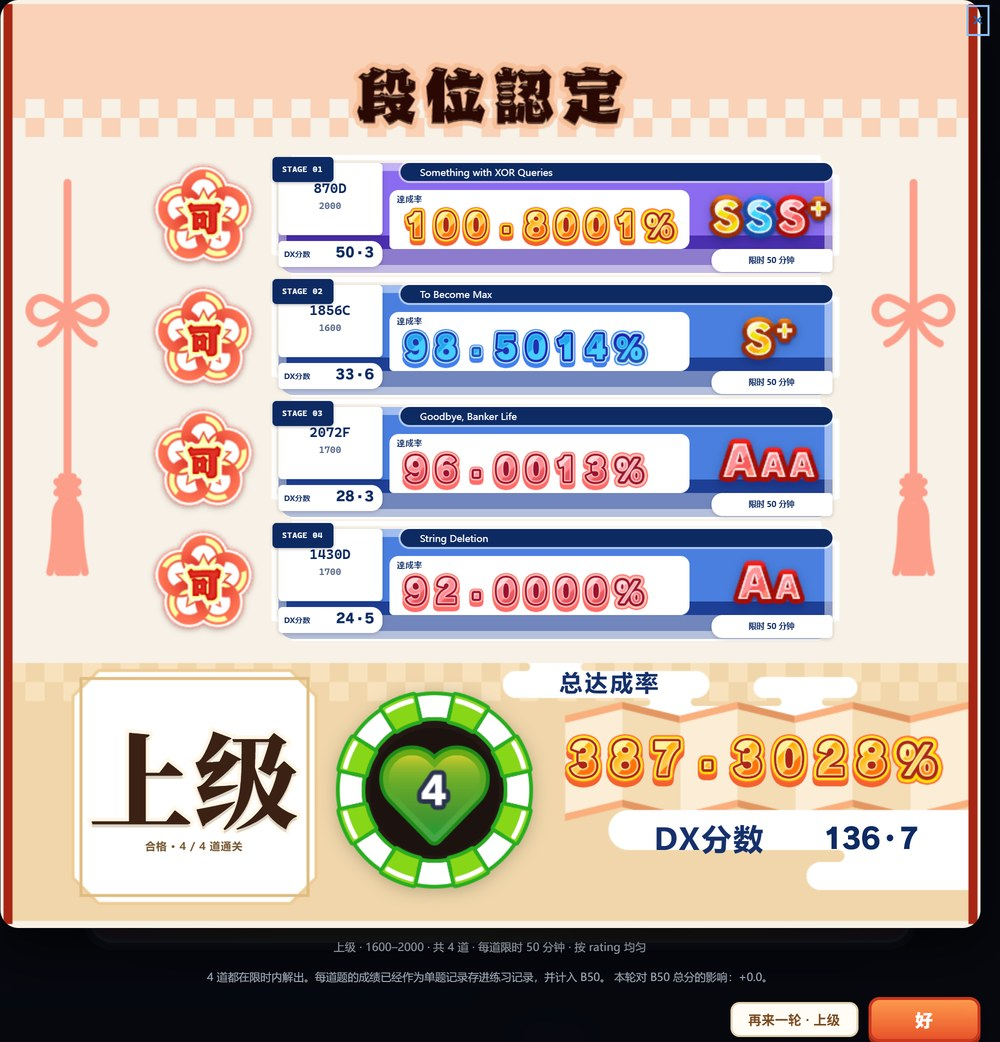
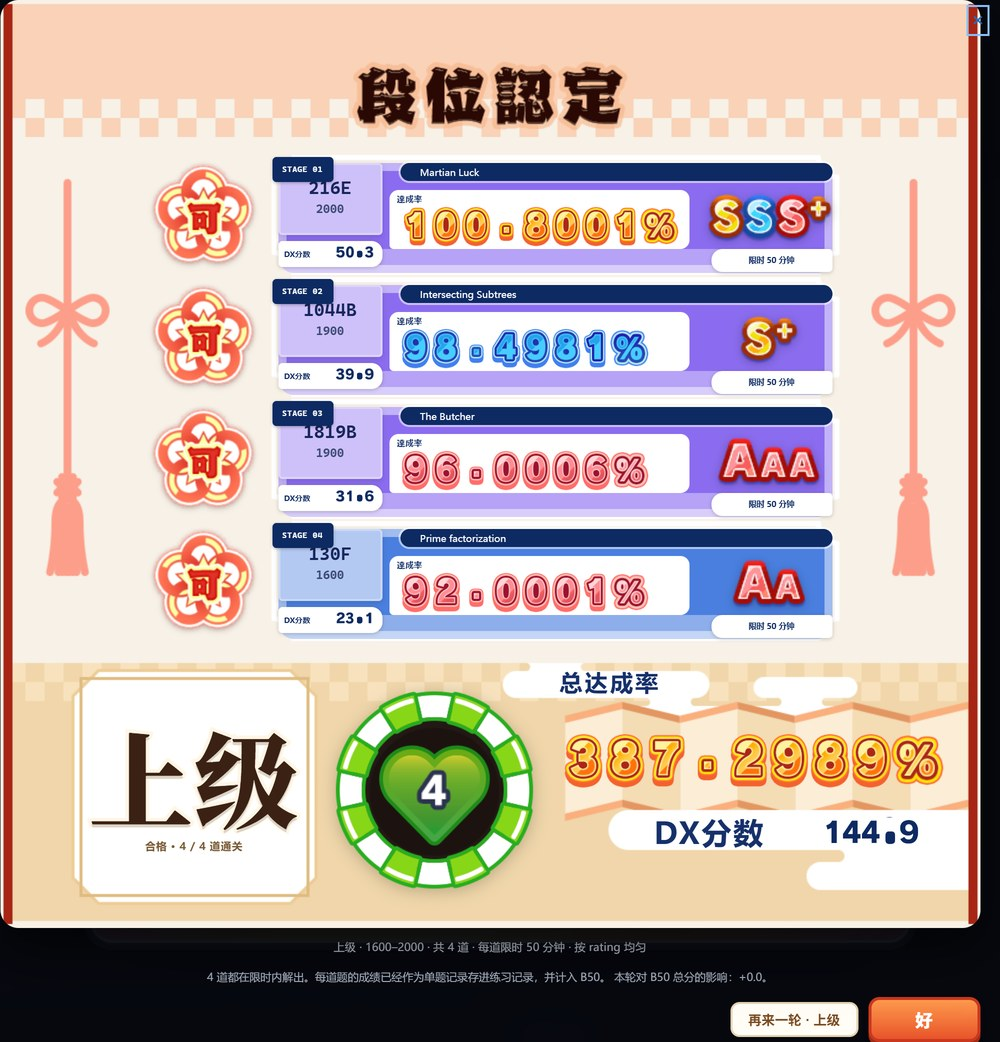
fix: put the decimal on the baseline, flatten the card colour
对着原版逐像素量了一遍（`official-dani.png` 里「101.0000%」那只方块）：

- **小数点根本没走上「借用」那条路**。白字族的索引表里也定义了 `.`（映射到 `[13]`），
  所以我上一版写的 `font.chars[ch] === undefined && ch === '.'` 永远不成立 —— 渲染出来的
  还是白字族那一格：26p 只有 8×8、90p 24×24，小字号下量下来只有 **6×6**、还浮在字高中间
  （实测它底边比数字基线高 8px）。现在改成「本族这一格画得不对，一律借分数族的句点」，
  直接覆盖映射。
- **借来的句点按基线摆**：官方那只方块的底边压在数字基线上（量下来差 0px）。所以借来的
  字形按自己的格子高定比例、横向居中，纵向把墨迹底线压到本族基线上（`baseline` 0.827 对
  90p 的 0.886）。复量：句点 10×12px、底边 y 843，数字基线 y 842 —— 差 0/1px。
- **卡片改平色**：主色场原来是 `--tc1 → --tc2` 的上下渐变，一屏四张卡就是四块深浅不一的
  色块；现在 `background: var(--tc1)`，只有底部那条浅色带（原版就有）。
- **曲绘槽底色**取卡片主色的浅色版本（`color-mix(... 42%, #fff)`），不再是纯白；槽里题号
  1rem → **1.3rem**、rating .68 → **.85rem**。
- 底带 `DX分数` 那一行上移 6px（白牌内边距 6 → 0）。

E2E / 像素探针 / 314 个单测全绿。

Changed region(s): [[0.279, 0.1536, 0.837, 0.6142], [0.651, 0.7063, 0.93, 0.8292], [0.434, 0.1536, 0.558, 0.1843]]

diff --git a/public/dan.css b/public/dan.css
@@ -228,14 +228,15 @@
 .dan-track[data-outcome="pending"] .dan-track-stamp { opacity: .22; filter: grayscale(1); }
 .dan-track-plate { position: absolute; inset: 0; background: url('/assets/maimai/track-plate.png') 0 0 / 100% 100% no-repeat; }
 
-/* 乐曲边框：主色场（背景渐变）+ 外圈浅色环（inset 阴影）+ 底部浅色带（背景最上面那一层）。
- * 环与带都画在背景层里，所以边框**不是**真 border —— 真 border 会把子元素坐标系推进 8px。 */
+/* 乐曲边框：**单色**主色场（原版那张底板就是一块平色）+ 外圈浅色环 + 底部浅色带。
+ * 环与带都画在背景层里，所以边框**不是**真 border —— 真 border 会把子元素坐标系推进 8px。
+ * 原来主色场是 `--tc1 → --tc2` 的上下渐变，一屏四张卡就是四块深浅不一的色块，改成平色。 */
 .dan-track-frame {
   position: absolute; left: 11px; top: 11px; width: 554px; height: 110px; border-radius: 16px;
   box-shadow: inset 0 0 0 8px #ffffff7a;
   background:
     linear-gradient(#ffffff5e, #ffffff5e) left bottom / 100% 24px no-repeat,
-    linear-gradient(180deg, var(--tc1, #8b6cf0) 0 66%, var(--tc2, #4a2fb0) 66% 100%);
+    var(--tc1, #8b6cf0);
 }
 /* 边框里的组件用**边框内坐标**（= 行内坐标 − 11，因为边框自己在行内 (11,11)）。 */
 /* 深蓝标题条（官方烘在边框里的那一条）+ 官方那圈浅色描边，题目名写在里面。
@@ -250,19 +251,19 @@
   color: #fff; background: #0d2a63; border-radius: 4px; box-shadow: 0 1px 3px #00000047;
 }
 /* 官方的曲绘槽（JacketImage_S）：我们抽的是 CF 题、没有曲绘 —— 槽里放题号本身
- * （`1554C` 这种「题号 + 小问」的写法）与这题在 CF 上的 rating。原来那一版往里塞了
- * 档位色渐变 + 斜条纹，一屏四张卡就是四块看不懂的色块，现在就是一块白牌。
- * 左上角跟着边框的圆角（方角会戳到边框圆角外面去）。 */
+ * （`1554C` 这种「题号 + 小问」的写法）与这题在 CF 上的 rating。
+ * 底色是**卡片主色的浅色版本**（原版那格是曲绘，换成白牌会像挖了个洞）。 */
 .dan-track-jacket {
   position: absolute; left: 11px; top: 11px; width: 104px; height: 72px;
   border-radius: 16px 4px 4px 4px; display: flex; flex-direction: column;
-  justify-content: center; align-items: center; gap: 4px; padding-bottom: 2px;
-  background: #fff; box-shadow: inset 0 0 0 2px #ffffff3d, 0 2px 6px #0000002e;
+  justify-content: center; align-items: center; gap: 2px;
+  background: color-mix(in srgb, var(--tc1, #8b6cf0) 42%, #ffffff);
+  box-shadow: inset 0 0 0 2px #ffffff4d, 0 2px 6px #00000024;
 }
 .dan-track-jacket b {
-  font-family: var(--mono); font-size: 1rem; font-weight: 900; line-height: 1; color: #0d2a63;
+  font-family: var(--mono); font-size: 1.3rem; font-weight: 900; line-height: 1; color: #17265c;
 }
-.dan-track-jacket small { font-family: var(--mono); font-size: .68rem; font-weight: 700; color: #5a6a8c; }
+.dan-track-jacket small { font-family: var(--mono); font-size: .85rem; font-weight: 700; color: #3d4a75; }
 /* 单题 DX 分数（= 该题算出的 rating）。跟着题目放左边，与右边的限时白牌左右配平；
  * 圆角方向照官方那块牌（平的一头贴边框，圆的一头朝里）。
  * `align-items: baseline`：小字标签与数字按**同一条基线**排（数字那一侧由 numText 的
@@ -364,7 +365,7 @@
  * 所以文字靠上排（顶到 y 816），不跟着整块矩形居中。 */
 .dan-dxscore-row {
   position: absolute; left: 608px; top: 810px; width: 360px; height: 80px;
-  display: flex; align-items: baseline; justify-content: space-between; padding: 6px 46px 0;
+  display: flex; align-items: baseline; justify-content: space-between; padding: 0 46px 0;
 }
 .dan-dxscore-label { font-size: 30px; font-weight: 800; letter-spacing: .06em; color: #16306b; }
 .dan-dxscore-num { display: flex; align-items: center; }

diff --git a/public/dan.js b/public/dan.js
@@ -665,8 +665,9 @@ const SCORE_INDEX = {
   '0': 0, '1': 1, '2': 2, '3': 3, '4': 4, '5': 5, '6': 6, '7': 7, '8': 8, '9': 9,
   '+': 10, '/': 11, '%': 12, '.': 13,
 };
-/** 白字族借用的小数点（分数族 `[13]`，见 NUM_FONTS 的说明）。 */
-const DECIMAL_GLYPH = { fill: 'num-score-blue', outline: '', atlas: [296, 392], cell: [74, 98], index: 13 };
+/** 白字族借用的小数点（分数族 `[13]`，见 NUM_FONTS 的说明）。
+ *  `baseline` 是这一格的墨迹底线（`y 41..81` / 98），借来的字形按它对齐到本族的基线上。 */
+const DECIMAL_GLYPH = { fill: 'num-score-blue', outline: '', atlas: [296, 392], cell: [74, 98], index: 13, baseline: 0.827 };
 /**
  * 图集每格留了空白边（90p 那格 89px 宽、字形只有 63px），照格宽排字会读起来「一个字一个字
  * 分开」。官方是等距密排（字与字几乎贴上），所以每格按 `advance` 收回去一点，见 numText。
@@ -776,8 +777,9 @@ function numText(text, fontKey, height, color, opts = {}) {
     const cell = el('i', 'dan-num-char');
     cell.style.height = `${height}px`;
     if (index === chars.length - 1) cell.classList.add('dan-num-last');
-    // 本族没有这一格时借一个（目前只有小数点：白字族那格是中黑点，借分数族的句点）。
-    const borrowed = font.chars[ch] === undefined && ch === '.' && font.decimal;
+    // 白字族那格是中黑点（不是句点），所以小数点一律用借来的字形 —— 不是「本族缺字才借」，
+    // 是「本族这一格画得不对」，所以这里覆盖掉 `chars` 里的映射。
+    const borrowed = ch === '.' && font.decimal;
     const glyph = borrowed ? font.decimal : font;
     const idx = borrowed ? glyph.index : font.chars[ch];
     if (idx === undefined) {
@@ -787,12 +789,14 @@ function numText(text, fontKey, height, color, opts = {}) {
       wrap.append(cell);
       return;
     }
-    // 借来的字形按**自己**的格子高定比例（保持形状比例），再在本族格子里横向居中。
+    // 借来的字形按**自己**的格子高定比例（保持形状比例），再在本族格子里横向居中、
+    // 纵向把它的墨迹底线压到本族的基线上（官方那句点的底边就是压在数字基线上的）。
     const gs = height / glyph.cell[1];
     const sx = (idx % NUM_COLS) * glyph.cell[0];
     const sy = Math.floor(idx / NUM_COLS) * glyph.cell[1];
     const size = `${glyph.atlas[0] * gs}px ${glyph.atlas[1] * gs}px`;
-    const pos = `${-sx * gs + (font.cell[0] * scale - glyph.cell[0] * gs) / 2}px ${-sy * gs}px`;
+    const dy = borrowed ? (font.baseline - glyph.baseline) * height : 0;
+    const pos = `${-sx * gs + (font.cell[0] * scale - glyph.cell[0] * gs) / 2}px ${-sy * gs + dy}px`;
     cell.style.width = `${font.cell[0] * scale}px`;
     if (glyph.outline && opts.outline !== false) {
       const outline = el('b', 'dan-num-outline');

diff --git a/docs/dan.md b/docs/dan.md
@@ -163,15 +163,16 @@ active ──四道全部通关──→ cleared（通过）
 - **底图**：整屏就是原作那张 980×928 的成品图 —— `UI_DNM_Result_Base_01`（「段位認定」）与 `UI_DNM_Result_Base_03`（「ランダム段位認定」）。页头文字、格纹页眉、两侧水引（蝴蝶结 + 竖绳 + 流苏）、下半部色带与左下角那格白框**全部烘焙在底图里**，所以档位挑战与随机段位各用自己那一版，标题不再由页面画。
 - **底图上那几块白不补**：下半部留了三处**挖白的空面板** —— 量下来是「标签白格」`(503,663) 354×50`（中间被折页的斜边切开，上半段 `503–708`、下半段被切成两小段）与「DX 分数白牌」`(608,810) 360×80`（左端还有个空着的圆白圆头）。那是原作留给运行时文字的位置，运行时会被盖住。我们一开始照「露白像空框」的思路用 `scripts/patch-maimai-result-band.py` 把这几块续画填掉了 —— 那是错的：官方版式本来就要在这三处写字，填掉等于自己把位置抹了。现在补丁脚本已删、底图回到原始素材，标签与大数字就摆回这三格（见下「底部色带」）。
 - **组件按官方坐标拼**：底图之上每一件都放在原作预制体（`Process/Course/CourseResultProcess`、逐题行的 `UI_CMN_KOP_TrackData`）量出来的位置上，尺寸也照官方：逐题行 `x 267–843`、第 1 行 `y 152`、行距 `122`（576 宽 = 官方 640 × 0.9）；行首的印是 `108×108`（官方原始尺寸，不是缩过的）；达成率数字字高 `44`；曲绘槽 `104×72`（官方 `JacketImage_S` 113×113 × 0.9 的位置）。这些数字写在 `public/dan.css` 顶部注释里，`scripts/dan-settlement-e2e.mjs` 里有一条断言直接量它们（`行内组件都待在底板里`），底部白框、白牌的坐标也是拿底图逐行数像素量出来的。
-- **逐题卡**：每道一张。左侧一枚原作印（`UI_DNM_Icon_Result_01` 可 / `_02` 不可，未抽到的变灰）；右侧横卡用原作底板 `UI_DNM_Result_musicBase_01` 撑起来，上面再压一层**乐曲边框** —— 版式照官方 `UI_CMN_RSL_KopMBase_*`（640×140）逐像素量出来画：外圈浅色环 + 主色场 + 底部浅色带 + 左侧曲绘槽 + 深蓝标题条（带官方那圈白边）+ 白色达成率框 + 深蓝行首小牌（官方 `JaketTrack`）。**颜色不烘死**：官方那五张（BSC/ADV/EXP/MST/MST_Re）把难度色和难度名都印在图里，套不上我们自己的 CF 分档，所以边框按 `--tc1/--tc2` 上色（`cfRatingColor(...).tone` → `TRACK_TONE`）。
-- **信息分配改了官方的排法**：官方右边一列挤了四件（评级 / 难度分 / 限时 / DX分数），四道并排看下来就是一堵字墙。现在左边是「跟题目走的东西」—— 曲绘槽换成一块**白牌**（官方那格是曲绘）：上行是完整题号（`1554C` 这种「场次 + 小问」），下行是这题在 CF 上的 rating；下面挂一块白牌写这道题的单题 rating（`DX分数`）；右边只留**评级徽章**与这道题的限时白牌。达成率大数字 + 官方彩色「%」字形仍在中间，数字**贴着白框左边**排（官方就是这样，不是右对齐）。
+- **逐题卡**：每道一张。左侧一枚原作印（`UI_DNM_Icon_Result_01` 可 / `_02` 不可，未抽到的变灰）；右侧横卡用原作底板 `UI_DNM_Result_musicBase_01` 撑起来，上面再压一层**乐曲边框** —— 版式照官方 `UI_CMN_RSL_KopMBase_*`（640×140）逐像素量出来画：外圈浅色环 + 主色场 + 底部浅色带 + 左侧曲绘槽 + 深蓝标题条（带官方那圈白边）+ 白色达成率框 + 深蓝行首小牌（官方 `JaketTrack`）。**颜色不烘死**：官方那五张（BSC/ADV/EXP/MST/MST_Re）把难度色和难度名都印在图里，套不上我们自己的 CF 分档，所以边框按 `--tc1` 上色（`cfRatingColor(...).tone` → `TRACK_TONE`）—— **一块平色**，不做上下渐变；左侧曲绘槽底色取这色的**浅色版本**（`color-mix(in srgb, var(--tc1) 42%, #fff)`），原版那格是曲绘，换成纯白牌会像在卡上挖了个洞）。
+- **信息分配改了官方的排法**：官方右边一列挤了四件（评级 / 难度分 / 限时 / DX分数），四道并排看下来就是一堵字墙。现在左边是「跟题目走的东西」—— 曲绘槽换成一块**卡片主色浅色版**的题号牌（官方那格是曲绘）：上行是完整题号（`1554C` 这种「场次 + 小问」），下行是这题在 CF 上的 rating；下面挂一块白牌写这道题的单题 rating（`DX分数`）；右边只留**评级徽章**与这道题的限时白牌。达成率大数字 + 官方彩色「%」字形仍在中间，数字**贴着白框左边**排（官方就是这样，不是右对齐）。
   - 官方那一格难度名牌（烘的是 `MASTER 大師` 这类难度名）**整个删掉了**：同一张卡上题号、达成率、单题 rating 已经把信息说全，再写一遍档位名既重复、又占掉半个标题条。标题条因此从 `x 122` 一路铺到边框右端（`122+432=554`）。
 - **评级徽章用游戏内那套**：`UI_GAM_Rank_*`（`D`/`C`/`B`/`BB`/`BBB`/`A`/`AA`/`AAA`/`S`/`S+`/`SS`/`SS+`/`SSS`/`SSS+` 单级各一张，源图紧裁 36–110 × 42–44）。早先用的是 `UI_CMN_TabTitle_Rank_*` —— 那是**页签标题**用的区间图：AAA 那张画的是「A～AAA」、BBB 那张是「～BBB」，摆在逐题卡片上根本不是那一级的评级，而且它没有 D/C/B/BB/A/AA 这些级，低分全挤在同一张牌上。换过来之后 14 级一级一张，框按 `132×52` 按高度贴齐。
 - **底部色带**：左下白框那一格原作放**段位名牌**，我们发档位不发段位名，就把档位名（`初级`/`中级`/`上级`/`超上级`/…）照原版那样写进去 —— 深棕重字 + 很淡的米白描边（`-webkit-text-stroke` + `paint-order: stroke fill`）+ 一点投影。原版那两个字是**烘死的毛笔字贴图**（`UI_DNM_DaniTitle_*` 只有日文段位名，套不上我们的档位），只能用系统字体近似：字体栈取 `Noto Serif SC` 的 **900** 字重（次选系统宋体/楷体那一类衬线），SimSun 那种细宋笔画只有原版一半粗。名字超过两个字自动缩号（`data-len`）。名字下面一行小字写「合格 · 4 / 4 道通关」。中间是原作的剩余生命底盘（`UI_DNM_Base_Life_01` 绿 / `_03` 红），照官方放大到 `200×200`，心里那个数字是「四道里过了几道」（数字图集里没有「/」字形，退回普通文字会被两边数字的描边吃掉，所以不写 `4/4`）。右边两块**照底图预留的白格**摆：`总达成率` 写进上面那格白（实测白区是 `x 503..708`，右边那截 `753..856` 被折页斜边切开，所以四个字按 `503..708` **居中**、字号 23），官方数字图集拼的大数字落在下面的色带上（`y 727`、字高 66，右端对齐 `x 950`）；`DX分数` 与它的数字写进下面那条白牌（`(608,810) 360×80`，标签在左、数字在右，两端各留 46px，左端那个空的白圆头按原样空着，文字靠上排 —— 白牌下半截也被折页切掉一块），两处都是和标题条同一个深蓝 `#16306b`。
 - 数字不是 CSS 字体画的：**官方数字图集逐格切**。图集是规整 4×4 网格，格子由同名 Sprite 定 rect；白字族每格拆成「官方 `_Outline` 剪影当遮罩上深色（描边）+ 官方填充图集」两层 —— 图集本身是**纯白剪影**（游戏运行时才染色），background 层没法单独染色，所以用两个真元素叠。这套「剪影 + 运行时染色」的能力也直接用在了 DX 分数上（染成帧上的深蓝 `#0d2a63`，见下）。对照表（一张张看出来的）：白字族 `[0-9]` `[10]'+'` `[11]'-'` `[12]','` `[13]'·'`（居中的圆点，就是这套字体的小数点）`[14]'%'`；分数族 `[10]'+'` `[11]'/'` `[12]'%'` `[13]'.'`。
 - **数字怎么排**：**一个字形一格，格子之间按 `advance` 等距** —— 就是图集自己的排法，小数点、逗号这些跟数字走同一条路，不开特例。唯一要做的是把每格右边的留白收掉：图集格宽比字形宽（分数族格宽 74、字形只有 60–63），照格宽排会读成「一个字一个字分开」，所以每格收回 `格宽 − advance`（分数族 74→67、90p 89→67、26p 34→24，见 `NUM_FONTS.advance`），最后一格不收回。
-  - 白字族里**没有句点这一格**：`[13]` 是中黑点（画在字高中线上，26p 那张只有 8×8、`y 18..25`）、`[12]` 是逗号，摆在小字号里都像断字符。所以 DX 分数（单题 rating / DX 总分）的小数点**借分数族那一格** —— `[13]` 才是这套数字里真正的句点（方形、压在基线附近），官方那张达成率图里的「101.0000%」用的就是它。借来的字形按自己的格子高定比例、在本族格子里横向居中，就一条公式，不开逐字表。
-  - 旁边有小字标签时（两处 `DX分数`）用 `numText` 的 `baseline` 选项：整块数字往下补 `(1 − baseline) × 字高`。flex 认的基线是这一格的**底边**，而图集里数字的墨迹底线在格高的 `baseline` 处（26p 0.825 / 90p 0.886），不补这一下数字就浮在标签上面；两处都用 `align-items: baseline` 排，实测标签与数字的基线都落在同一条 y 上。
+  - 白字族里**没有句点这一格**：`[13]` 是中黑点（画在字高中线上，26p 那张只有 8×8、`y 18..25`，摆在小字号里只有 6px、还浮在中间）、`[12]` 是逗号 —— 所以小数点**一律用借来的字形**（不是「本族缺字才借」，是本族这一格画得不对，代码里直接覆盖掉 `chars` 的映射）。借的是分数族 `[13]`：那才是这套数字里真正的句点（方形），官方那张达成率图里「101.0000%」的句点就是这样一只方块。
+  - 借来的字形按**自己**的格子高定比例（保持形状比例），再在本族格子里**横向居中、纵向把墨迹底线压到本族的基线上** —— 官方那只方块的底边就是压在数字基线上的（`official-dani.png` 里量过，差 0px）。字体表里 `baseline` 记的就是各自墨迹底线在格高里的比例（26p 0.825 / 90p 0.886 / 分数族句点 0.827）。
+  - 旁边有小字标签时（两处 `DX分数`）用 `numText` 的 `baseline` 选项：整块数字往下补 `(1 − baseline) × 字高`。flex 认的基线是这一格的**底边**，而图集里数字的墨迹底线在格高的 `baseline` 处，不补这一下数字就浮在标签上面；两处都用 `align-items: baseline` 排，实测标签与数字的基线都落在同一条 y 上。
   - 末尾那个「%」是独立图片（80×80、墨迹 `x 8..70`，比图集里的 `%` 格大一号），按 `<img>` 直排会在数字和 `%` 之间多出一截，所以放大到 `1.1 × 字高` 再用负边距把左边的留白抵掉。
 - **达成率按分数换色**：官方那套 `UI_NUM_Score_0001111_{Blue,Gold,Red}` 是同布局的三色分数图集（自带颜色、不叠描边），末尾的大「%」字形 `UI_RSL_Score_Per_{Blue,Gold,Red}` 同样三色 —— 所以达成率的档位就是三档：`≥100%` 金（SSS/SSS+）、`≥97%` 蓝（S～SS+）、再低红。`scoreTone()` 在 `public/dan.js` 里，换色在同一条 `achievementNumber()` 里做。**官方那张 `UI_NUM_Score_0001111_Base` 是一张空图集**（16 格里一个字形都没有，整张只有几列杂散像素），照它渲染出来就是一片看不见的灰影，别用。三档同时出现的样子：
 
